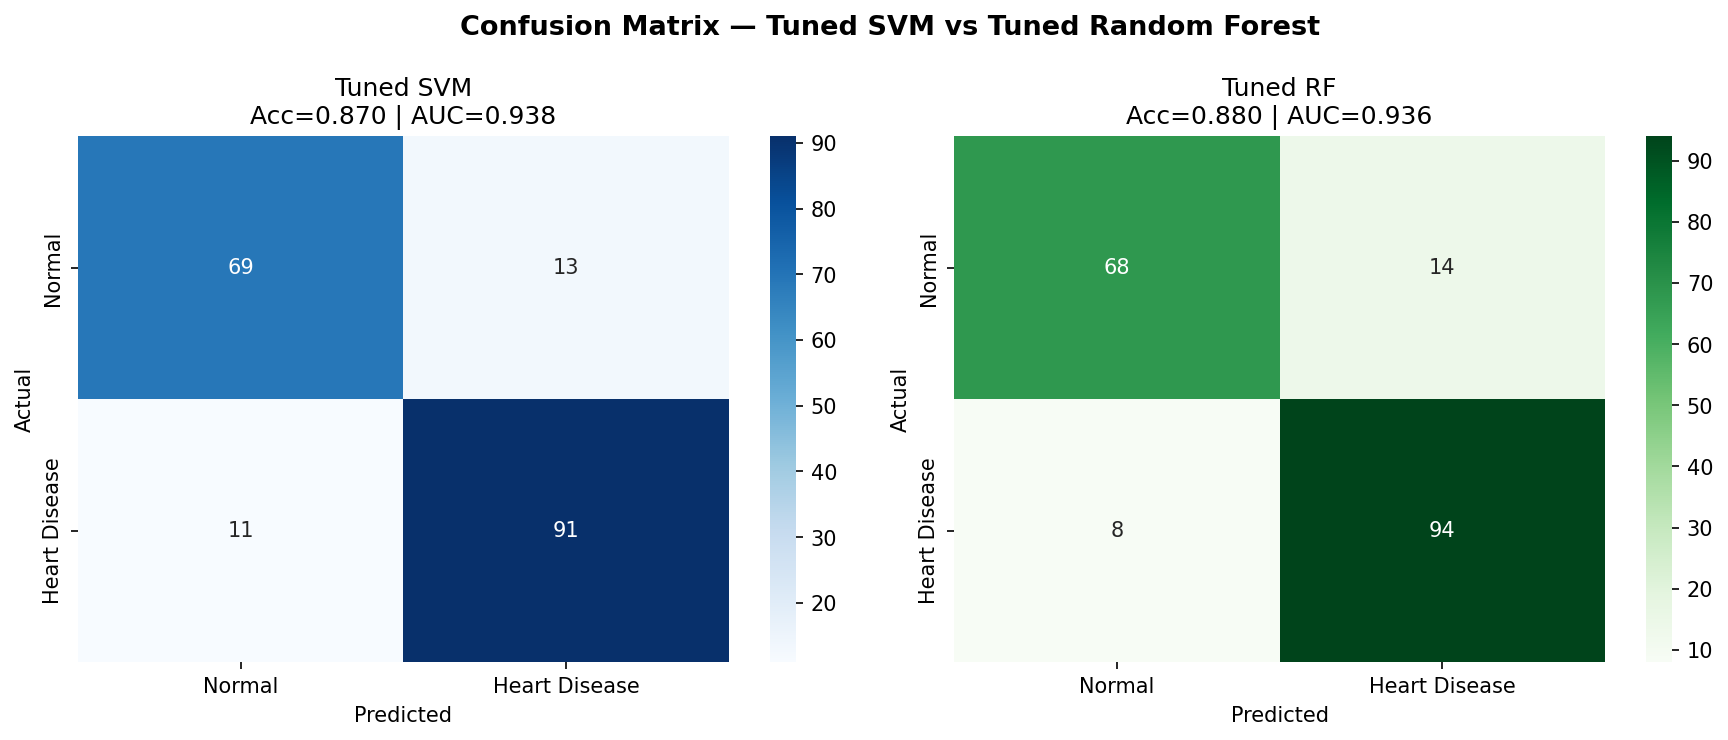
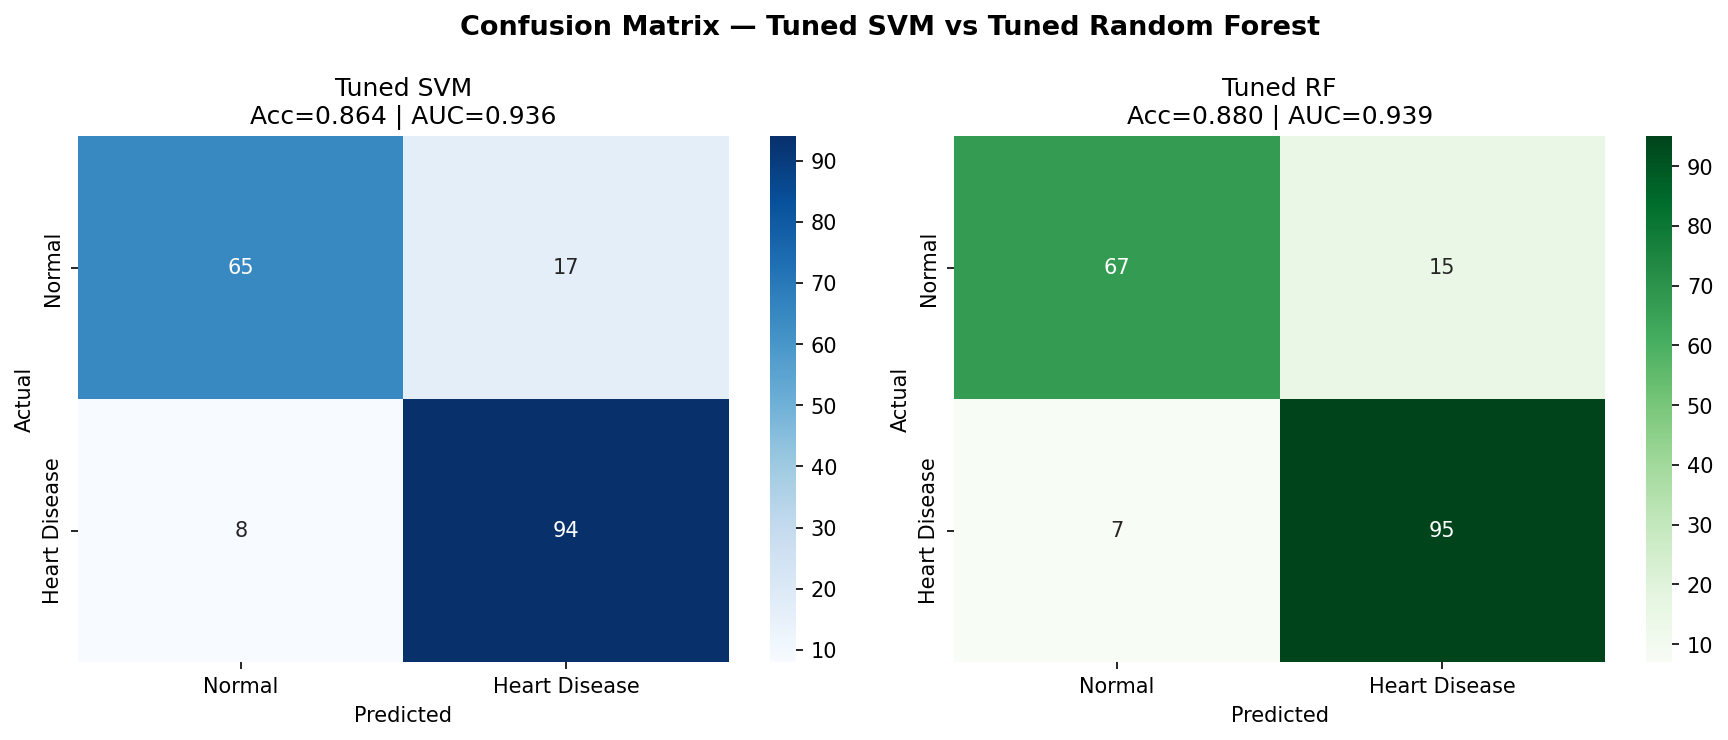
update terbaru

diff --git a/CardioVascular.py b/CardioVascular.py
@@ -65,32 +65,35 @@ print("Baseline Random Forest selesai dilatih.")
 # SVM: C (keketatan batas), gamma (pengaruh data point), kernel (bentuk pemisah)
 
 parameter_SVM = {
-    'C' : [0.01, 0.1, 1, 10, 100, 500, 1000],
-    'gamma' : ['scale', 'auto', 0.01, 0.1],
+    'C' : [0.1, 1, 5, 10, 50, 100],
+    'gamma' : ['scale', 'auto', 0.001, 0.01, 0.1],
     'kernel' : ['rbf', 'linear'],
+    'class_weight': ['balanced', None]
 }
 
 # RF: n_estimators (jumlah pohon), max_depth (kedalaman), dll
 
 parameter_RF = {
-    'n_estimators' : [100, 200, 300],
-    'max_depth' : [None, 5, 10, 20],
+    'n_estimators' : [100, 200, 300, 500],
+    'max_depth' : [None, 5, 10, 15, 20],
     'min_samples_split' : [2, 5, 10],
-    'max_features' : ['sqrt', 'log2']
+    'min_samples_leaf' : [1, 2, 4],
+    'max_features' : ['sqrt', 'log2'],
+    'class_weight'     : ['balanced', None]
 }
 
 #---------------- Randomized Search -----------------------
 
 search_svm = RandomizedSearchCV(
     SVC(probability=True, random_state=42),
-    parameter_SVM, n_iter=50, cv= 5,
-    scoring='roc_auc', random_state=42, n_jobs=-1, refit=True
+    parameter_SVM, n_iter=60, cv= 10,
+    scoring='recall', random_state=42, n_jobs=-1, refit=True
 )
 
 search_rf = RandomizedSearchCV(
     RandomForestClassifier(random_state=42),
-    parameter_RF, n_iter=50, cv=5,
-    scoring= 'roc_auc', random_state=42, n_jobs= -1, refit=True
+    parameter_RF, n_iter=70, cv=10,
+    scoring= 'recall', random_state=42, n_jobs= -1, refit=True
 )
 
 #------------------- Tuning ------------------------------